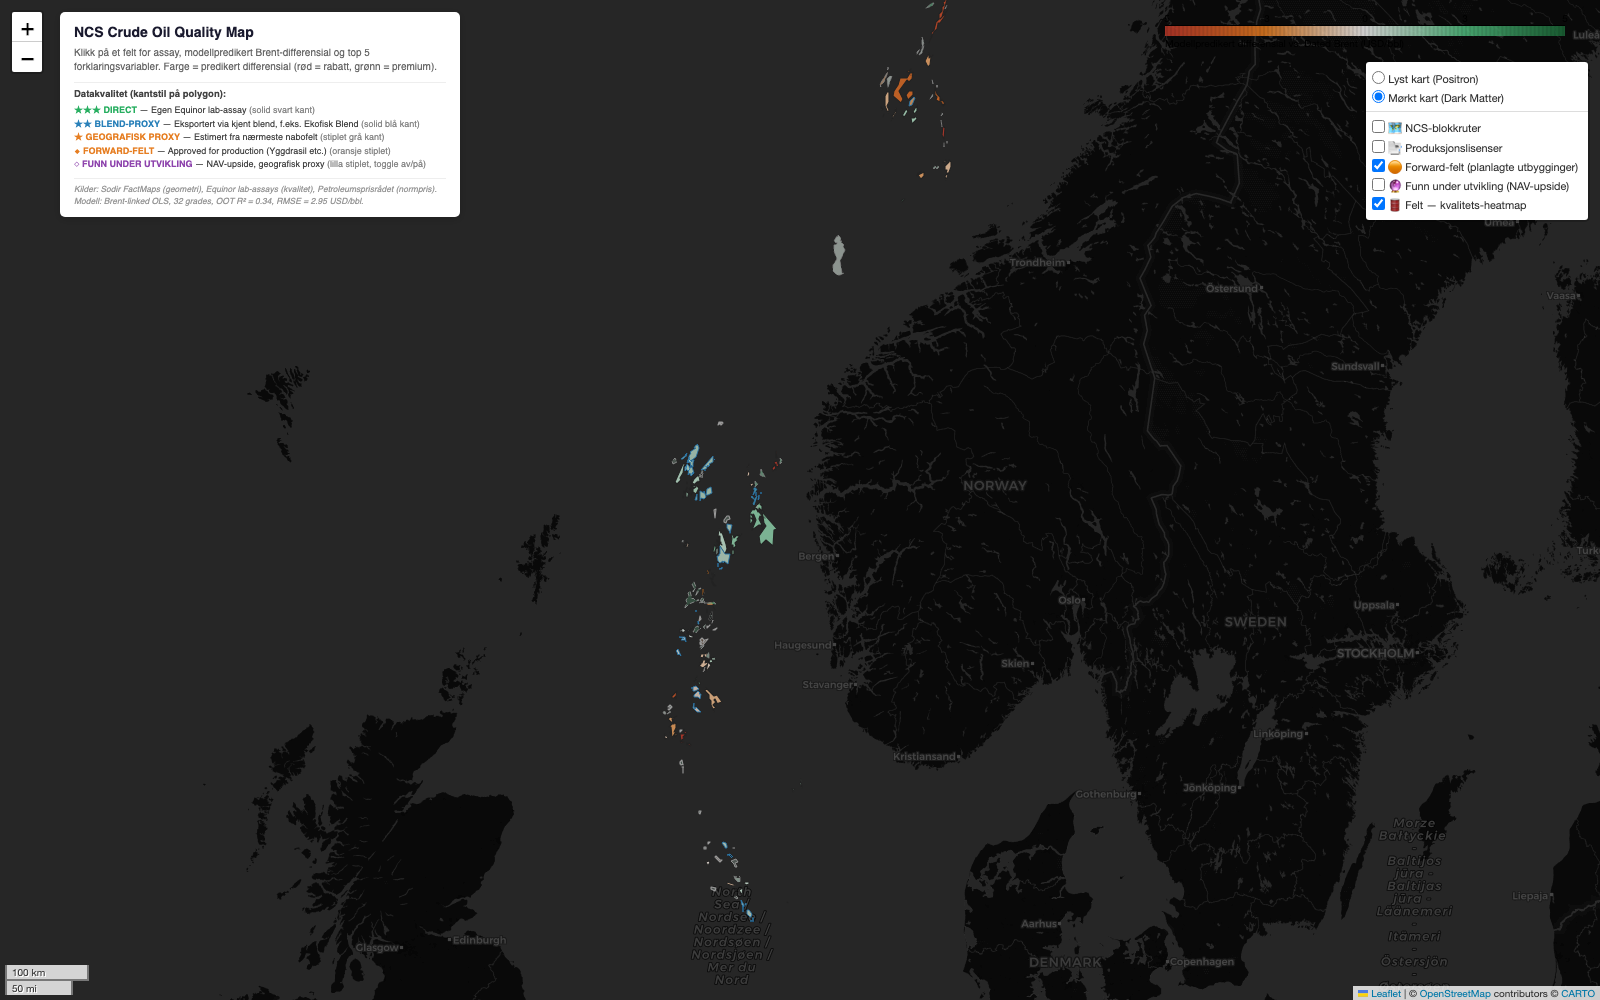
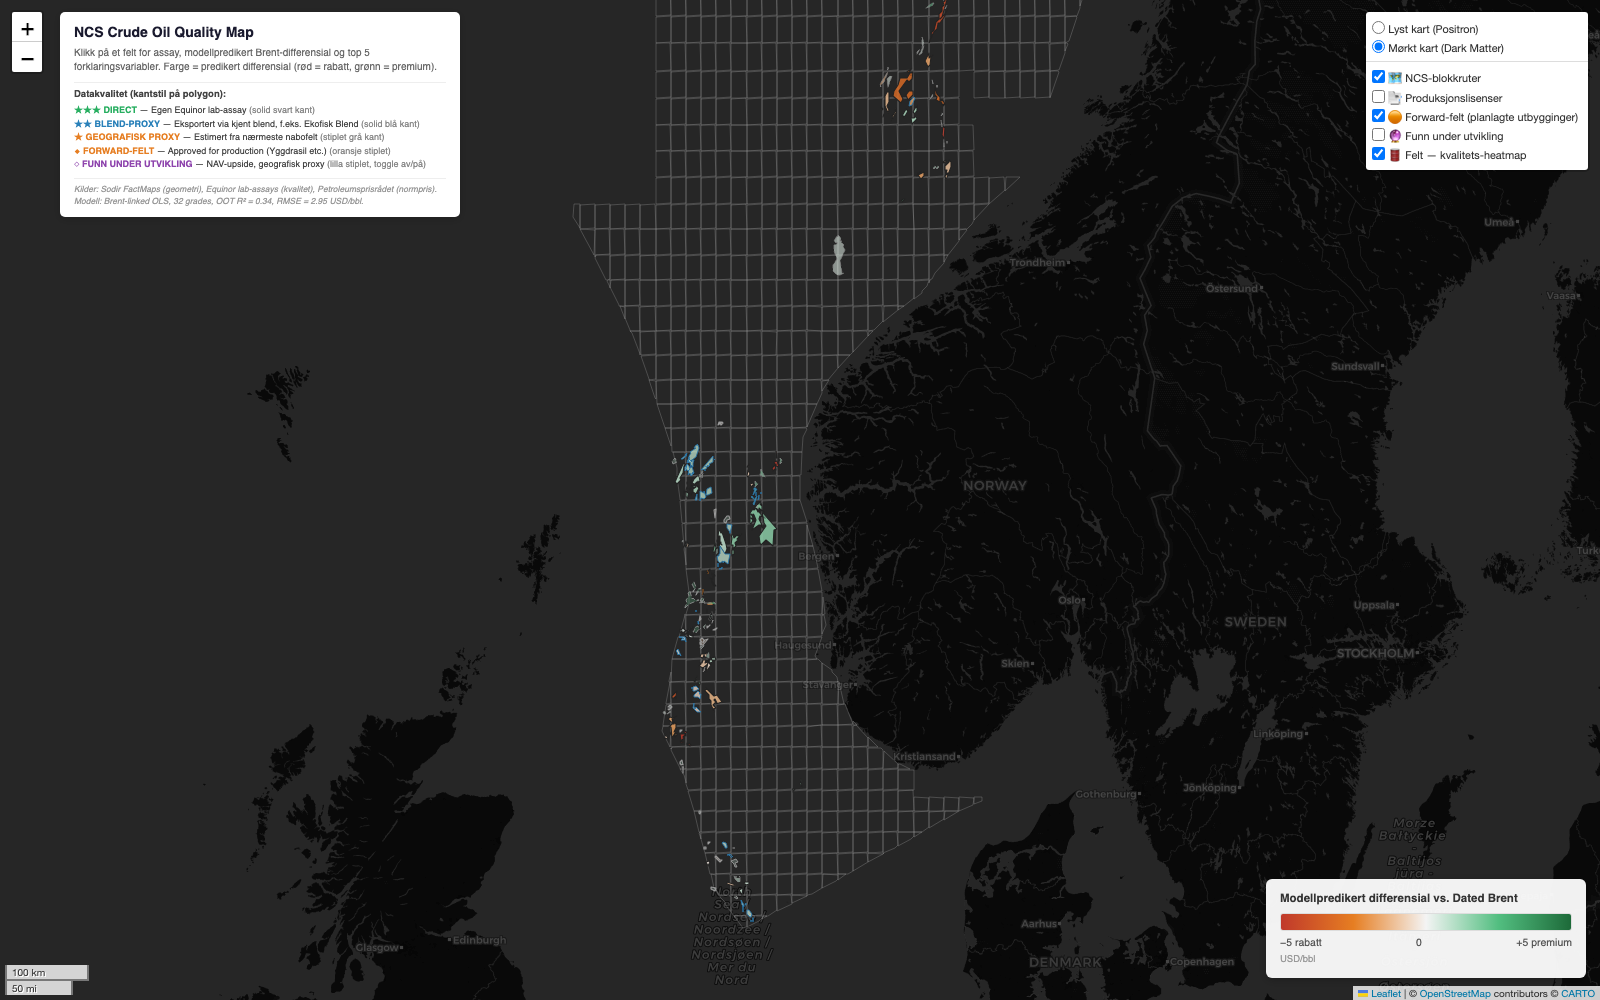
Polish interactive map: legend placement, layer defaults, clickable fields
- Move the quality-differential heatmap legend from the cramped top-right
  branca control to a larger custom legend in the bottom-right corner
- Remove the "(NAV-upside)" tag from the discoveries toggle in the
  top-right layer box
- Show the NCS block grid by default and render it in a dedicated
  non-interactive pane (pointer-events none, low z-index) so the blocks
  sit beneath the fields and never capture clicks. Fields stay clickable
  regardless of the order layers are toggled

Changed region(s): [[0.375, 0.0, 0.6875, 0.899], [0.7188, 0.0, 1.0, 0.217], [0.7812, 0.868, 1.0, 0.992]]

diff --git a/src/4_fluid_and_map/49_interactive_ncs_map.py b/src/4_fluid_and_map/49_interactive_ncs_map.py
@@ -28,6 +28,7 @@ import numpy as np
 import pandas as pd
 import folium
 from folium import plugins
+from folium.map import CustomPane
 from branca.colormap import LinearColormap
 from branca.element import Template, MacroElement
 
@@ -1222,19 +1223,26 @@ def main() -> None:
         "CartoDB dark_matter", name="Mørkt kart (Dark Matter)", control=True
     ).add_to(fmap)
 
+    # Fargeskala brukes til felt-farger. Branca-legenden (Leaflet-kontroll,
+    # låst til topright) erstattes av en egen HTML-legend nederst til høyre
+    # lenger ned, så den blir større og plassert der vi vil ha den.
     cm = make_colormap()
-    cm.add_to(fmap)
 
     # NB: Leaflet legger sist-tilføyde lag ØVERST i z-orden, så vi MÅ legge
     # bakgrunnslag (blokker, lisenser) først og felt-laget til slutt.
     # Bakgrunnslagene gjøres også non-interactive (ingen klikk-fangst).
 
-    # ── BAKGRUNNSLAG 1: NCS-blokker (legges nederst, ikke-interaktivt) ─────
-    blocks_layer = folium.FeatureGroup(name="🗺  NCS-blokkruter", show=False)
+    # ── BAKGRUNNSLAG 1: NCS-blokker (nederst, ekte non-interactive) ────────
+    # Eget Leaflet-pane med pointer_events=False og lav z-index. Da fanger
+    # blokk-rutene ALDRI klikk, og de ligger alltid under feltene, uansett
+    # hvilken rekkefølge lagene hukes av/på. Feltene forblir klikkbare.
+    # Huket av som standard når lenken åpnes (vises som referansegrid).
+    CustomPane("ncs_bg", z_index=350, pointer_events=False).add_to(fmap)
+    blocks_layer = folium.FeatureGroup(name="🗺  NCS-blokkruter", show=True)
     folium.GeoJson(
         blocks_fc,
         style_function=style_block,
-        # Ingen tooltip/popup → fanger ikke klikk
+        pane="ncs_bg",          # klikk passerer rett gjennom til feltene
         zoom_on_click=False,
     ).add_to(blocks_layer)
     blocks_layer.add_to(fmap)
@@ -1324,7 +1332,7 @@ def main() -> None:
     # Bruker geografisk proxy for kvalitet — nærmeste felt med assay.
     # Alle popups markeres som ESTIMAT med klar usikkerhets-disclaimer.
     discovery_layer = folium.FeatureGroup(
-        name="🔮  Funn under utvikling (NAV-upside)", show=False
+        name="🔮  Funn under utvikling", show=False
     )
     n_disc = 0
     # Bygg sentroid-indeks også for funn (vi har den allerede for felt)
@@ -1500,6 +1508,28 @@ def main() -> None:
     </div>
     """
     fmap.get_root().html.add_child(folium.Element(title_html))
+
+    # Heatmap-legend (kvalitets-differensial) — nederst til høyre, større.
+    # Erstatter branca sin lille topright-kontroll.
+    legend_html = """
+    <div style='position: fixed; bottom: 22px; right: 14px; z-index: 9998;
+                background: rgba(255,255,255,0.94); padding: 11px 14px;
+                border-radius: 6px; box-shadow: 0 2px 10px rgba(0,0,0,0.22);
+                font-family: -apple-system, sans-serif; width: 320px;'>
+      <div style='font-size: 11.5px; font-weight: bold; color: #333; margin-bottom: 7px;'>
+        Modellpredikert differensial vs. Dated Brent
+      </div>
+      <div style='height: 18px; border-radius: 3px; border: 1px solid #ddd;
+                  background: linear-gradient(to right,
+                  #C0392B 0%, #E67E22 25%, #F4F4F4 50%, #52BE80 75%, #1D6A39 100%);'></div>
+      <div style='display: flex; justify-content: space-between;
+                  font-size: 10.5px; color: #555; margin-top: 4px;'>
+        <span>&minus;5 rabatt</span><span>0</span><span>+5 premium</span>
+      </div>
+      <div style='font-size: 9.5px; color: #999; margin-top: 3px;'>USD/bbl</div>
+    </div>
+    """
+    fmap.get_root().html.add_child(folium.Element(legend_html))
 
     # ── Lagre ────────────────────────────────────────────────────────────────
     fmap.save(str(OUT_HTML))